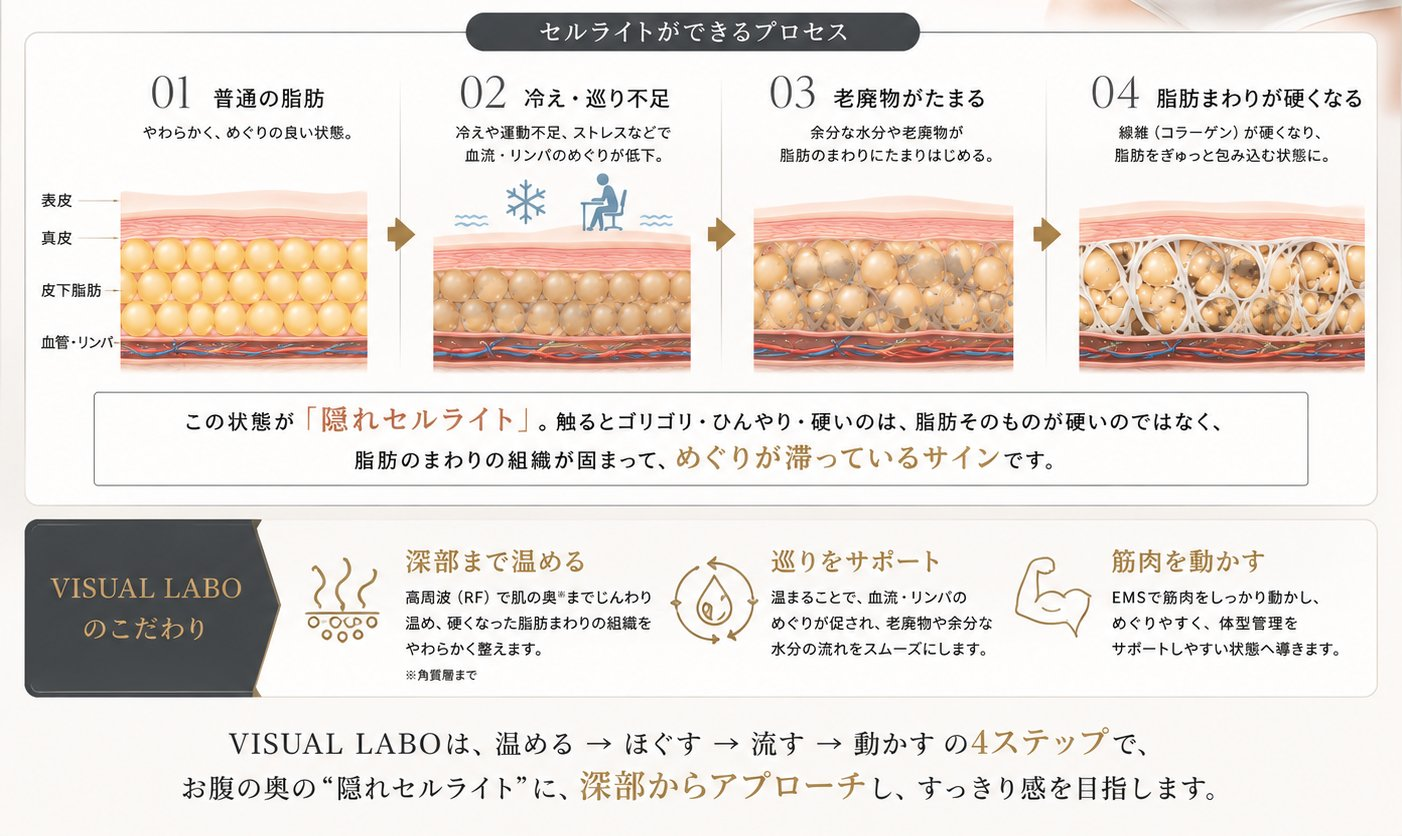
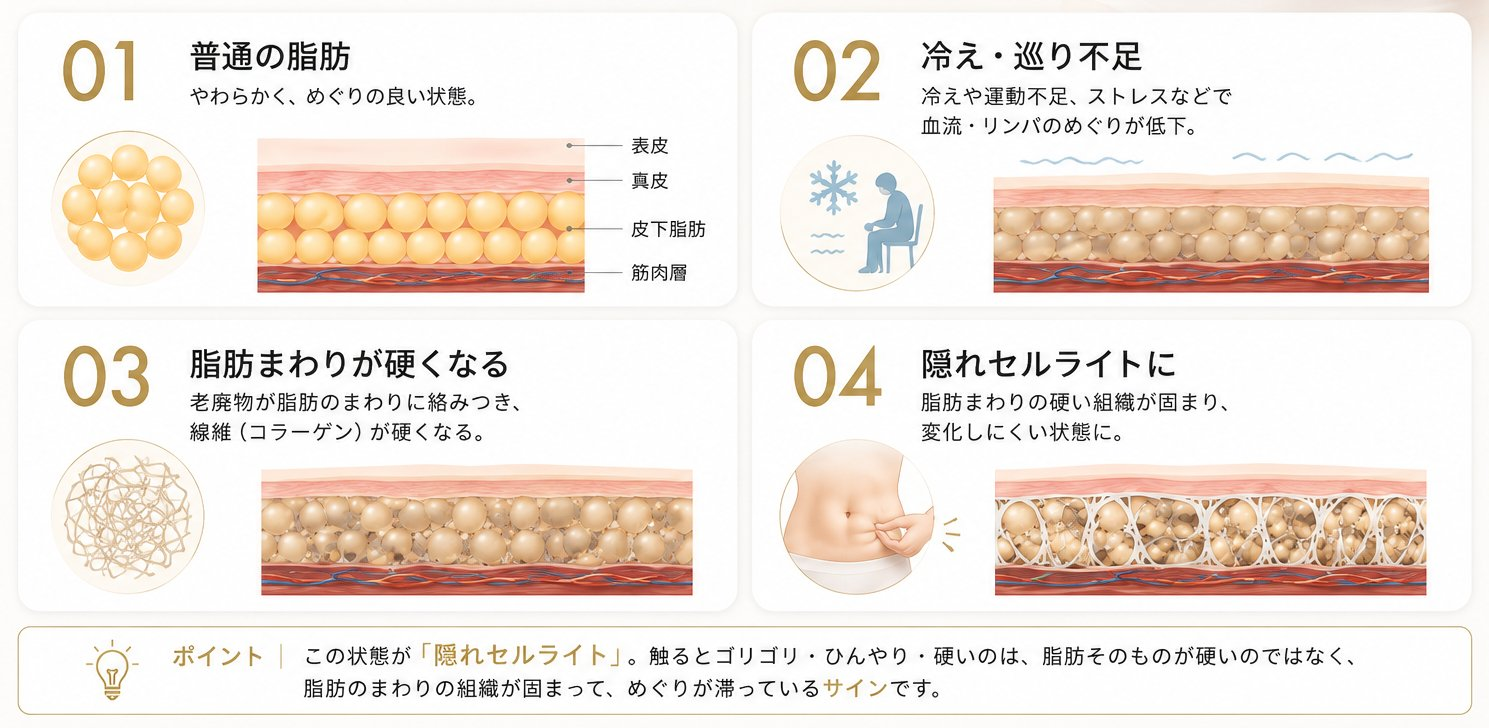
セルライト図解を新版（4カード・隠れセルライトポイント帯）に差し替え

diff --git a/rf.html b/rf.html
@@ -124,7 +124,7 @@
       </div>
       <p style="font-size:13px;color:var(--ink-mute);margin-top:14px">ひとつでも当てはまったら、奥にひそむ「隠れセルライト」のサインかもしれません。</p>
     </div>
-    <figure class="rv" style="margin:clamp(28px,5vw,44px) auto 0;max-width:980px"><img loading="lazy" src="images/cellulite-process.jpg" alt="セルライトができるプロセス｜01 普通の脂肪（やわらかく、めぐりの良い状態）→02 冷え・巡り不足（冷えや運動不足、ストレスなどで血流・リンパのめぐりが低下）→03 老廃物がたまる（余分な水分や老廃物が脂肪のまわりにたまりはじめる）→04 脂肪まわりが硬くなる（線維＝コラーゲンが硬くなり、脂肪をぎゅっと包み込む状態に）｜この状態が「隠れセルライト」。触るとゴリゴリ・ひんやり・硬いのは、脂肪のまわりの組織が固まって、めぐりが滞っているサイン｜VISUAL LABOのこだわり：深部まで温める・巡りをサポート・筋肉を動かす｜温める→ほぐす→流す→動かすの4ステップで、深部からアプローチし、すっきり感を目指します" style="width:100%;border-radius:14px;display:block"></figure>
+    <figure class="rv" style="margin:clamp(28px,5vw,44px) auto 0;max-width:980px"><img loading="lazy" src="images/cellulite-process.jpg" alt="セルライトの正体は、脂肪まわりの固まり｜01 普通の脂肪（やわらかく、めぐりの良い状態）→02 冷え・巡り不足（冷えや運動不足、ストレスなどで血流・リンパのめぐりが低下）→03 脂肪まわりが硬くなる（老廃物が脂肪のまわりに絡みつき、線維＝コラーゲンが硬くなる）→04 隠れセルライトに（脂肪まわりの硬い組織が固まり、変化しにくい状態に）｜ポイント：この状態が「隠れセルライト」。触るとゴリゴリ・ひんやり・硬いのは、脂肪そのものが硬いのではなく、脂肪のまわりの組織が固まって、めぐりが滞っているサインです" style="width:100%;border-radius:14px;display:block"></figure>
     <p class="body-txt rv" style="text-align:center;margin-top:46px;font-size:15px">温めて、ほぐして、流れやすい状態へ。<br>この一連の流れをひとつのマシンでできるのが、<b style="color:var(--ink);font-weight:500">MystiCore®の高周波施術</b>。<br>自己流のケアでは届かない「お腹の奥」こそ、VISUAL LABOへ。</p>
     <p class="disc rv">※ 体型管理を目的とした施術であり、医療行為ではありません。感じ方・変化には個人差があります。</p>
   </div>